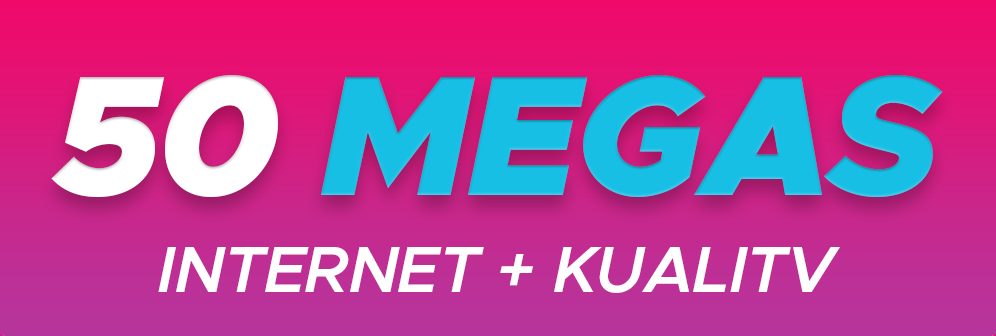
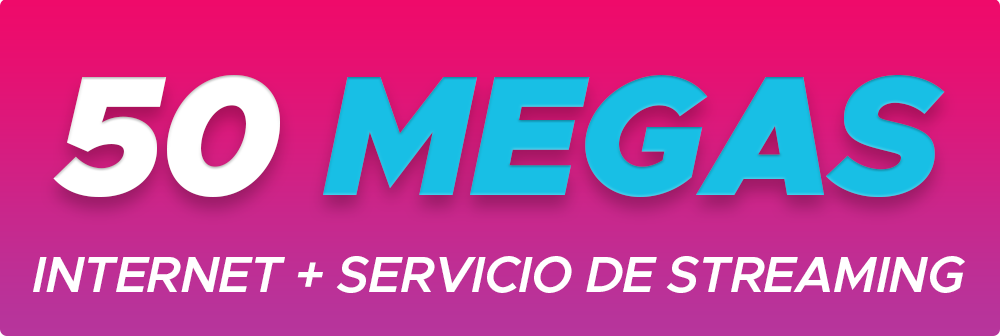
Modificaciones archivo google drive

diff --git a/paquetes.html b/paquetes.html
@@ -124,7 +124,7 @@
                             <div class="p-1"><p class="card-text fw-bold fst-italic text-paquetes">HASTA 4 DISPOSITIVOS <br> AL MISMO TIEMPO</p></div>
                         </div>
                         <div class="d-flex flex-row align-items-center p-2">
-                            <div class="p-1"><img src="./assets/img/inicio/kualitv.png" class="img-fluid" width="30" height="30" alt="KualiTV"></div>
+                            <div class="p-1"><img src="./assets/img/inicio/streaming.png" class="img-fluid" width="30" height="30" alt="Servicio de Streaming"></div>
                             <div class="p-1"><p class="card-text fw-bold fst-italic text-paquetes">+ DE 60 CANALES DE TV</p></div>
                         </div>
                         <div class="image-footer img-texto"><img src="./assets/img/inicio/paquete1_2.png" class="img-fluid w-100" alt=""><a href="" data-bs-toggle="modal" data-bs-target="#enviarModal"><span class="text-center p-2 fs-5 fst-italic fw-bold">Quiero info <i class="bi bi-chevron-down"></i></span></a></div>
@@ -146,7 +146,7 @@
                             <div class="p-1"><p class="card-text fw-bold fst-italic text-paquetes">HASTA 4 DISPOSITIVOS <br> AL MISMO TIEMPO</p></div>
                         </div>
                         <div class="d-flex flex-row align-items-center p-2">
-                            <div class="p-1"><img src="./assets/img/inicio/kualitv.png" class="img-fluid" width="30" height="30" alt="KualiTV"></div>
+                            <div class="p-1"><img src="./assets/img/inicio/streaming.png" class="img-fluid" width="30" height="30" alt="Servicio de Streaming"></div>
                             <div class="p-1"><p class="card-text fw-bold fst-italic text-paquetes">+ DE 60 CANALES DE TV</p></div>
                         </div>
                         <div class="image-footer img-texto"><img src="./assets/img/inicio/paquete2_2.png" class="img-fluid w-100" alt=""><a href="" data-bs-toggle="modal" data-bs-target="#enviarModal"><span class="text-center p-2 fs-5 fst-italic fw-bold">Quiero info <i class="bi bi-chevron-down"></i></span></a></div>
@@ -187,7 +187,7 @@
                             <div class="p-1"><p class="card-text fw-bold fst-italic text-paquetes">HASTA 4 DISPOSITIVOS <br> AL MISMO TIEMPO</p></div>
                         </div>
                         <div class="d-flex flex-row align-items-center p-2">
-                            <div class="p-1"><img src="./assets/img/inicio/kualitv.png" class="img-fluid" width="30" height="30" alt="KualiTV"></div>
+                            <div class="p-1"><img src="./assets/img/inicio/streaming.png" class="img-fluid" width="30" height="30" alt="Servicio de Streaming"></div>
                             <div class="p-1"><p class="card-text fw-bold fst-italic text-paquetes">+ DE 60 CANALES DE TV</p></div>
                         </div>
                         <div class="image-footer img-texto"><img src="./assets/img/inicio/paquete3_2.png" class="img-fluid w-100" alt=""><span class="text-center p-2 fs-5"><a href="" data-bs-toggle="modal" data-bs-target="#enviarModal"><span class="text-center p-2 fs-5 fst-italic fw-bold">Quiero info <i class="bi bi-chevron-down"></i></span></a></div>
@@ -209,7 +209,7 @@
                             <div class="p-1"><p class="card-text fw-bold fst-italic text-paquetes">HASTA 4 DISPOSITIVOS <br> AL MISMO TIEMPO</p></div>
                         </div>
                         <div class="d-flex flex-row align-items-center p-2">
-                            <div class="p-1"><img src="./assets/img/inicio/kualitv.png" class="img-fluid" width="30" height="30" alt="KualiTV"></div>
+                            <div class="p-1"><img src="./assets/img/inicio/streaming.png" class="img-fluid" width="30" height="30" alt="Servicio de Streaming"></div>
                             <div class="p-1"><p class="card-text fw-bold fst-italic text-paquetes">+ DE 60 CANALES DE TV</p></div>
                         </div>
                         <div class="image-footer img-texto"><img src="./assets/img/inicio/paquete4_2.png" class="img-fluid w-100" alt=""><a href="" data-bs-toggle="modal" data-bs-target="#enviarModal"><span class="text-center p-2 fs-5 fst-italic fw-bold">Quiero info <i class="bi bi-chevron-down"></i></span></a></div>
@@ -259,7 +259,7 @@
         </div>
         <div class="container-kualipaq text-center">
             <div class="row py-4 px-4">
-                <div class="col py-4" data-bs-toggle="modal" data-bs-target="#kualitvModal" style="cursor:pointer">
+                <div class="col py-4" data-bs-toggle="modal" data-bs-target="#streamingModal" style="cursor:pointer">
                     <div class="container-img-paquetes">
                         <img src="./assets/img/paquetes/kualitv-icon.png" class="img-fluid hvr-grow img-kuali-paq" alt="">
                     </div>
@@ -302,16 +302,16 @@
             </div>
         </div>
 
-        <!-- Modal KualiTV -->
-        <div class="modal fade" id="kualitvModal" tabindex="-1" aria-labelledby="kualitvModalLabel" aria-hidden="true">
+        <!-- Modal Streaming -->
+        <div class="modal fade" id="streamingModal" tabindex="-1" aria-labelledby="streamingModalLabel" aria-hidden="true">
             <div class="modal-dialog modal-dialog-centered">
                 <div class="modal-content">
                     <div class="modal-header container-kualipaq">
-                        <h1 class="modal-title fs-5 text-white" id="kualitvModalLabel"><img src="./assets/img/paquetes/kualitv-icon.png" width="50" height="50" alt=""> KUALITV</h1>
+                        <h1 class="modal-title fs-5 text-white" id="streamingModalLabel"><img src="./assets/img/paquetes/kualitv-icon.png" width="50" height="50" alt=""> SERVICIO DE STREAMING</h1>
                     </div>
                     <div class="modal-body">
-                        <h5 class="fst-italic">HASTA 4 DISPOSITIVOS AL MISMO TIEMPO</h5>
-                        <p>Disfruta de la programación de KualiTV hasta en 4 dispositivos al mismo tiempo
+                        <h5 class="fst-italic">SERVICIO DE STREAMING</h5>
+                        <p>Disfruta de la programación de nuestro servicio de streaming hasta en 4 dispositivos al mismo tiempo
                             (siempre que estén conectados a un red de Internet), sin cobro adicional.
                         </p>
                     </div>
@@ -321,7 +321,7 @@
                 </div>
             </div>
         </div>
-        <!-- End Modal KualiTV -->
+        <!-- End Modal Streaming -->
 
         <!-- Modal Internet -->
         <div class="modal fade" id="internetModal" tabindex="-1" aria-labelledby="internetModalLabel" aria-hidden="true">

diff --git a/index.html b/index.html
@@ -125,7 +125,7 @@
                                 <div class="p-1"><p class="card-text fw-bold fst-italic text-paquetes">HASTA 4 DISPOSITIVOS <br> AL MISMO TIEMPO</p></div>
                             </div>
                             <div class="d-flex flex-row align-items-center p-2">
-                                <div class="p-1"><img src="./assets/img/inicio/kualitv.png" class="img-fluid" width="30" height="30" alt="KualiTV"></div>
+                                <div class="p-1"><img src="./assets/img/inicio/streaming.png" class="img-fluid" width="30" height="30" alt="Servicio de Streaming"></div>
                                 <div class="p-1"><p class="card-text fw-bold fst-italic text-paquetes">+ DE 60 CANALES DE TV</p></div>
                             </div>
                         <div class="image-footer img-texto"><img src="./assets/img/inicio/paquete1_2.png" class="img-fluid w-100" alt=""><a href="" data-bs-toggle="modal" data-bs-target="#enviarModal"><span class="text-center p-2 fs-5 fst-italic fw-bold">Quiero info <i class="bi bi-chevron-down"></i></span></a></div>
@@ -148,7 +148,7 @@
                             <div class="p-1"><p class="card-text fw-bold fst-italic text-paquetes">HASTA 4 DISPOSITIVOS <br> AL MISMO TIEMPO</p></div>
                         </div>
                         <div class="d-flex flex-row align-items-center p-2">
-                            <div class="p-1"><img src="./assets/img/inicio/kualitv.png" class="img-fluid" width="30" height="30" alt="KualiTV"></div>
+                            <div class="p-1"><img src="./assets/img/inicio/streaming.png" class="img-fluid" width="30" height="30" alt="Servicio de Streaming"></div>
                             <div class="p-1"><p class="card-text fw-bold fst-italic text-paquetes">+ DE 60 CANALES DE TV</p></div>
                         </div>
                         <div class="image-footer img-texto"><img src="./assets/img/inicio/paquete2_2.png" class="img-fluid w-100" alt=""><a href="" data-bs-toggle="modal" data-bs-target="#enviarModal"><span class="text-center p-2 fs-5 fst-italic fw-bold">Quiero info <i class="bi bi-chevron-down"></i></span></a></div>
@@ -171,7 +171,7 @@
                             <div class="p-1"><p class="card-text fw-bold fst-italic text-paquetes">HASTA 4 DISPOSITIVOS <br> AL MISMO TIEMPO</p></div>
                         </div>
                         <div class="d-flex flex-row align-items-center p-2">
-                            <div class="p-1"><img src="./assets/img/inicio/kualitv.png" class="img-fluid" width="30" height="30" alt="KualiTV"></div>
+                            <div class="p-1"><img src="./assets/img/inicio/streaming.png" class="img-fluid" width="30" height="30" alt="Servicio de Streaming"></div>
                             <div class="p-1"><p class="card-text fw-bold fst-italic text-paquetes">+ DE 60 CANALES DE TV</p></div>
                         </div>
                         <div class="image-footer img-texto"><img src="./assets/img/inicio/paquete3_2.png" class="img-fluid w-100" alt=""><span class="text-center p-2 fs-5"><a href="" data-bs-toggle="modal" data-bs-target="#enviarModal"><span class="text-center p-2 fs-5 fst-italic fw-bold">Quiero info <i class="bi bi-chevron-down"></i></span></a></div>
@@ -194,7 +194,7 @@
                             <div class="p-1"><p class="card-text fw-bold fst-italic text-paquetes">HASTA 4 DISPOSITIVOS <br> AL MISMO TIEMPO</p></div>
                         </div>
                         <div class="d-flex flex-row align-items-center p-2">
-                            <div class="p-1"><img src="./assets/img/inicio/kualitv.png" class="img-fluid" width="30" height="30" alt="KualiTV"></div>
+                            <div class="p-1"><img src="./assets/img/inicio/streaming.png" class="img-fluid" width="30" height="30" alt="Servicio de Streaming"></div>
                             <div class="p-1"><p class="card-text fw-bold fst-italic text-paquetes">+ DE 60 CANALES DE TV</p></div>
                         </div>
                         <div class="image-footer img-texto"><img src="./assets/img/inicio/paquete4_2.png" class="img-fluid w-100" alt=""><a href="" data-bs-toggle="modal" data-bs-target="#enviarModal"><span class="text-center p-2 fs-5 fst-italic fw-bold">Quiero info <i class="bi bi-chevron-down"></i></span></a></div>
@@ -312,7 +312,7 @@
                         </tr>
                     </tbody>
                 </table>
-            <a href="http://localhost/kualidigital/servicios.html#ancla-kualitv" class="text-white fw-bold fst-italic text-decoration-underline p-2 hvr-glow btn btn-canales">Ir a KualiTV <i class="bi bi-chevron-down"></i></a>
+            <a href="http://localhost/kualidigital/servicios.html#ancla-kualitv" class="text-white fw-bold fst-italic text-decoration-underline p-2 hvr-glow btn btn-canales">Todos los canales <i class="bi bi-chevron-down"></i></a>
         </div>
 
         <div class="container-contactanos my-5">

diff --git a/servicios.html b/servicios.html
@@ -225,12 +225,12 @@
             <div class="container-banner py-5 mt-5" style="background-image: url(./assets/img/servicios/banner_4.png);background-size:cover;">
                 <div class="container text-center">
                     <div class="row align-items-center">
-                        <div class="col" data-bs-toggle="modal" data-bs-target="#kualitvModal">
+                        <div class="col" data-bs-toggle="modal" data-bs-target="#streamingModal">
                             <div class="">
-                                <img src="./assets/img/servicios/kualitv.png" class="img-fluid hvr-grow img-servicios" alt="KualiTV">
+                                <img src="./assets/img/servicios/streaming.png" class="img-fluid hvr-grow img-servicios" alt="Streaming">
                             </div>
                             <div class="container-text-paquetes">
-                                <span class="fs-5 fw-bold fst-italic text-kualitv">Hasta 4 dispositivos al mismo tiempo</span>
+                                <span class="fs-5 fw-bold fst-italic text-streaming">Hasta 4 dispositivos al mismo tiempo</span>
                             </div>
                         </div>
                         <div class="col" data-bs-toggle="modal" data-bs-target="#internetModal">
@@ -261,7 +261,7 @@
                             <div class="">
                                 <img src="./assets/img/servicios/atencion.png" class="img-fluid hvr-grow img-servicios" alt="Atencion Personalizada">
                             </div>
-                            <div class="mt-2">
+                            <div class="mt-5">
                                 <span class="fs-5 fw-bold fst-italic text-atper">Atención personalizada</span>
                             </div>
                         </div>
@@ -270,14 +270,14 @@
             </div>
 
             <!-- Modal KualiTV -->
-            <div class="modal fade" id="kualitvModal" tabindex="-1" aria-labelledby="kualitvModalLabel" aria-hidden="true">
+            <div class="modal fade" id="streamingModal" tabindex="-1" aria-labelledby="streamingModalLabel" aria-hidden="true">
                 <div class="modal-dialog modal-dialog-centered">
                     <div class="modal-content">
-                        <div class="modal-header header-kualitv">
-                            <h1 class="modal-title fs-5 text-white" id="kualitvModalLabel"><img src="./assets/img/paquetes/kualitv-icon.png" width="50" height="50" alt=""> HASTA 4 DISPOSITIVOS AL MISMO TIEMPO</h1>
+                        <div class="modal-header header-streaming">
+                            <h1 class="modal-title fs-5 text-white" id="streamingModalLabel"><img src="./assets/img/paquetes/kualitv-icon.png" width="50" height="50" alt=""> SERVICIO DE STREAMING</h1>
                         </div>
                         <div class="modal-body">
-                            <p>Disfruta de la programación de KualiTV hasta en 4 dispositivos al mismo tiempo
+                            <p>Disfruta de la programación de nuestro servicio de streaming hasta en 4 dispositivos al mismo tiempo
                                 (siempre que estén conectados a un red de Internet), sin cobro adicional.
                             </p>
                         </div>

diff --git a/empresarial.html b/empresarial.html
@@ -161,6 +161,11 @@
                             <img src="./assets/img/empresarial/internet_dedicado.png" class="img-fluid hvr-grow img-empresarial" alt="Internet Dedicado">
                         </div>
                     </div>
+                    <div class="col py-4" data-bs-toggle="modal" data-bs-target="#pymeModal" style="cursor:pointer">
+                        <div class="container-img-paquetes">
+                            <img src="./assets/img/empresarial/internet_pyme.png" class="img-fluid hvr-grow img-empresarial" alt="Internet PyME">
+                        </div>
+                    </div>
                 </div>
             </div>
         </div>
@@ -209,6 +214,28 @@
             </div>
         </div>
         <!-- End Modal Internet Dedicado -->
+
+        <!-- Modal Internet PyME -->
+        <div class="modal fade" id="pymeModal" tabindex="-1" aria-labelledby="pymeModalLabel" aria-hidden="true">
+            <div class="modal-dialog modal-dialog-centered">
+                <div class="modal-content">
+                    <div class="modal-header bg-header">
+                        <h1 class="modal-title fs-5 text-white" id="pymeModalLabel">INTERNET PyME</h1>
+                    </div>
+                    <div class="modal-body">
+                        <ul class="list-unstyled">
+                            <li><i class="bi bi-check2"></i> 100% fibra óptica con garantía de servicio.</li>
+                            <li><i class="bi bi-check2"></i> Conexión estable.</li>
+                            <li><i class="bi bi-check2"></i> Misma velocidad para subir y descargar.</li>
+                        </ul>
+                    </div>
+                    <div class="modal-footer">
+                        <button type="button" class="btn btn-danger" data-bs-dismiss="modal">Cerrar</button>
+                    </div>
+                </div>
+            </div>
+        </div>
+        <!-- End Modal Internet PyME -->
 
         <footer class="">
             <div class="container">

diff --git a/assets/css/style.css b/assets/css/style.css
@@ -410,17 +410,17 @@ footer{
 }
 
 .img-servicios{
-    width: 220px;
-    height: 220px;
+    width: 180px;
+    height: 180px;
     cursor: pointer;
 }
 .img-internet, .img-plazos, .img-instalacion{
     cursor: pointer;
 }
-.header-kualitv{
+.header-streaming{
     background-color: #7c2380;
 }
-.text-kualitv{
+.text-streaming{
     color: #7c2380;
 }
 .header-internet{

diff --git a/README.md b/README.md
@@ -22,3 +22,14 @@ Página web KualiDigital
 - Corrección del texto en Misión y Visión.
 - Se corrigió el texto debajo del mapa de cobertura.
 - Se eliminaron textos duplicados en la pestaña Otros Productos y se modificó el texto debajo de los productos.
+
+
+# Modificaciones archivo Google Drive 23/08/2023
+
+- Se modificó el vector morado de "KualiTV" por "Servicio por Streaming".
+- Se modificó el header de los paquetes en la página de Inicio y Paquetes.
+- Se cambió el banner "KualiTV" por "Servicio por Streaming.
+- Modificación del texto "Ir a KualiTV" por "Todos los canales".
+- Se cambió el vector "KualiTV" por "Servicio por Streaming en la pestaña de Servicios.
+- Modificación del texto en el PopUp de KualiTV.
+- Se cambió el banner para descargar la app.
